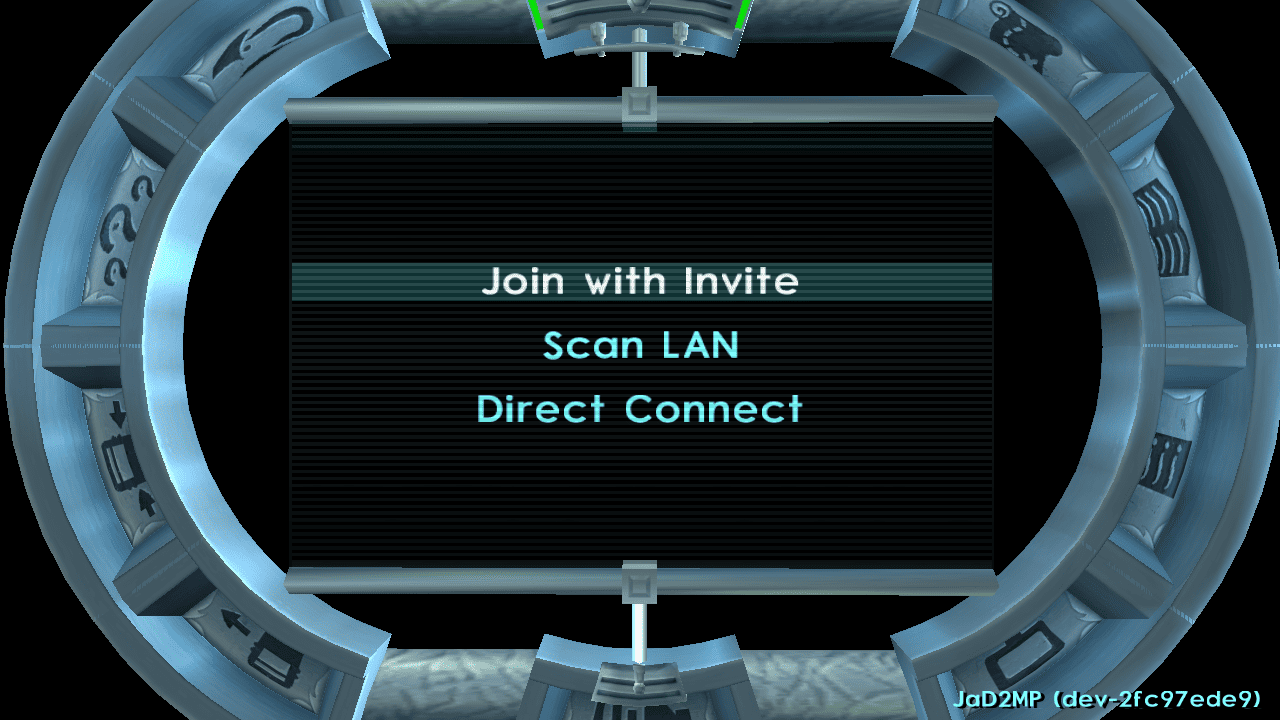
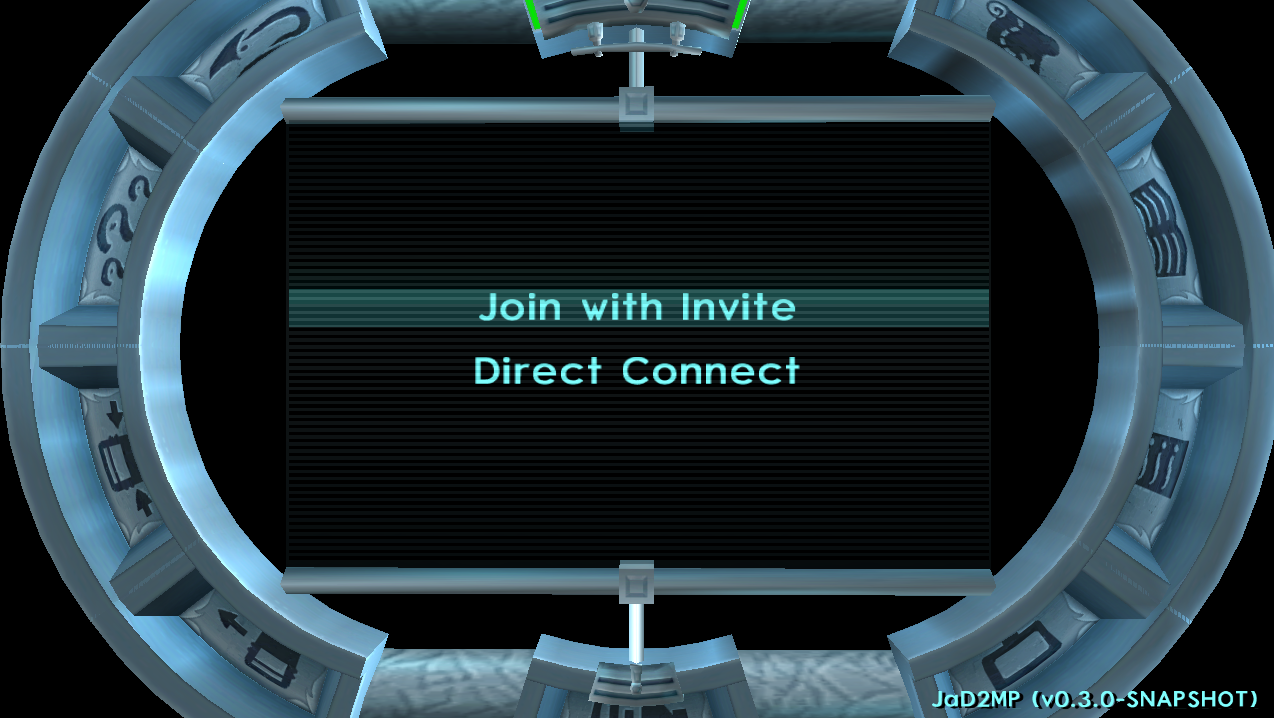
chore: update README

diff --git a/README.md b/README.md
@@ -11,10 +11,8 @@ The intentional experience is tailored around 2 players where one plays as Jak, 
 
 ## Current State
 
-This is a very early MVP multiplayer build, so expect a ton of bugs, unstability and crashes. Currently the story is only playable until the Palace Baron fight, the game will lock further progress after you've completed that mission.<br>
-The goal is to make the full Jak II campaign playable together.<br>
-Currently, this mod primarily serves as a Co-op mod, when the full Story is in a finished state, more game modes are planned to be supported as well.<br>
-If at least the Host is in debug mode then a lot of constraints I've put in to block progression can be bypassed.
+This is a very early MVP multiplayer build, so expect a ton of bugs, unstability and crashes.<br>
+Currently, this mod primarily serves as a Co-op mod, more game modes are planned to be supported as well.<br>
 
 ## Disclaimers
 - To speed up development, LLMs have been used for research, debugging and implementation while making this mod, not in an autonomous way, all generated code is being reviewed, and manually modified where needed
@@ -37,6 +35,7 @@ If at least the Host is in debug mode then a lot of constraints I've put in to b
 
 - Make sure to align with what each version of the mod all players have installed. You cannot join a session that is running on a different version of the mod. You can see the mod version in-game in the bottom right corner.
 - The mod was mainly tested with the NTSC-U (`SCUS-97265`) version of the game on Windows. If you notice bugs please record what platform you're on and what version you were using.
+- The mod supports Steamworks, it's disabled by default, you enable it via the **Network** settings in **Multiplayer Options**
 - When you Host you'll get a prompt to allow `gk` through the firewall, if you want to Host Online, you'll need to give it access.
 - The mod has **UPnP (Universal Plug and Play)** support, which means that if your router supports it, and you're not behind a CGNAT for example, then the game will attempt to do an automatic port mapping on your router, so you don't have to manually port forward. This is temporary, and after your host session ends, the mapping is removed. This feature can be turned off in the **Multiplayer Options** in game.
 - UPnP is not expected to work for everyone especially nowadays, so if you can't port-forward I'd suggest to use some VLAN solution like Hamachi, Radmin etc...
@@ -109,34 +108,41 @@ If at least the Host is in debug mode then a lot of constraints I've put in to b
 
    <img src="docs/img/mp/main-menu-join-game.png" alt="Join Game menu options" width="400">
 
-### Select one of the three joining methods:
+### Lobby browser:
 
-### Option 1: **Join with Invite**
+   <img src="docs/img/mp/join-lobby-browser.png" alt="Join Game menu options" width="400">
+
+### Option 1: LAN
+
+- Use this option when playing on the same local network (LAN), through a VLAN solution like Radmin or Hamachi or just want to play split-screen
+- LAN lobbies are automatically discovered and will be shown in the list. 
+
+### Option 2: Steamworks (Spacewar)
+
+- Use this option for a setup-free experience
+- Must have Steam Integration enabled in the **Network** tab of **Multiplayer Options**
+
+### Option 3: **Manual**
 
 - Use this option when joining a friend over the internet using a copied host **Invite**
 
-1. Copy the **Invite** sent by the host to your clipboard
-2. Choose **Join with Invite**.
-3. Select **Paste Invite**. The invite is going to be validated, and if its valid then the **Connect** button will light up
-4. Select **Connect**.
+1. Press <img src="docs/img/common/dpad-square.png" alt="PS2 Square button" width="16"> in the lobby browser
+2. Copy the **Invite** sent by the host to your clipboard
+3. Choose **Join with Invite**.
+4. Select **Paste Invite**. The invite is going to be validated, and if its valid then the **Connect** button will light up
+5. Select **Connect**.
 
    <img src="docs/img/mp/join-game-join-with-invite.png" alt="Join game with Invite" width="400">
    <img src="docs/img/mp/join-with-invite-paste-invite.png" alt="Paste invite before clipboard detection" width="400">
 
-### Option 2: Scan LAN
-
-- Use this option when playing on the same local network (LAN), through a VLAN solution like Radmin or Hamachi or just want to play split-screen
-
-1. Choose **Scan LAN**.
-2. The game will search for active hosts on your private network and connect automatically.
-
-### Option 3: Direct Connect
+### Option 4: **Direct Connect**
 
 - Use this option if you manually want to specify the host details. (CTRL+V pasting works in the fields, just make sure to enter them first)
 
-1. Choose **Direct Connect**.
-2. Verify or update the target **Address**, **Port** (default `26210`), and optional **Room Code**.
-3. Select **Connect**.
+1. Press <img src="docs/img/common/dpad-square.png" alt="PS2 Square button" width="16"> in the lobby browser
+2. Choose **Direct Connect**.
+3. Verify or update the target **Address**, **Port** (default `26210`), and optional **Room Code**.
+4. Select **Connect**.
 
 ### Inside the **Lobby** as a **Client**
 
@@ -178,10 +184,8 @@ If the Host has **NAT: Strict/LAN** or **NAT: Failed** then the Host might be un
 
 - Random crashes are sadly still not unexpected, thankfully as the Host the game should be a bit more stable, as a Client it's pretty unproblematic to reconnect unless you're in a mission that has an NPC/Bot in it like Sig, since there's no catchup logic implemented for those type of missions (yet).
 - The remote player replicas can miss their animation triggers, so when they jump they might be "falling" until their legs hit the floor.
-- The Traffic Sync is very much so host owned, if the client player exits the host's traffic radius the handover is pretty invasive, it's going to remove all traffic on the client's side until he gets far enough from the Host. When he does the Client is going to start spawning peds and vehicles locally.
 - Reconnecting is currently the main recovery path for client-side issues and soft-locks.
-- Some situations may still behave better when the host leads the interaction.
-- Testing has not been very thorough, so please feel free to report any issues or game-breaking bugs you find!
+- Testing has not been very thorough past Act I, so please feel free to report any issues or game-breaking bugs you find!
 
 ## Credits
 
